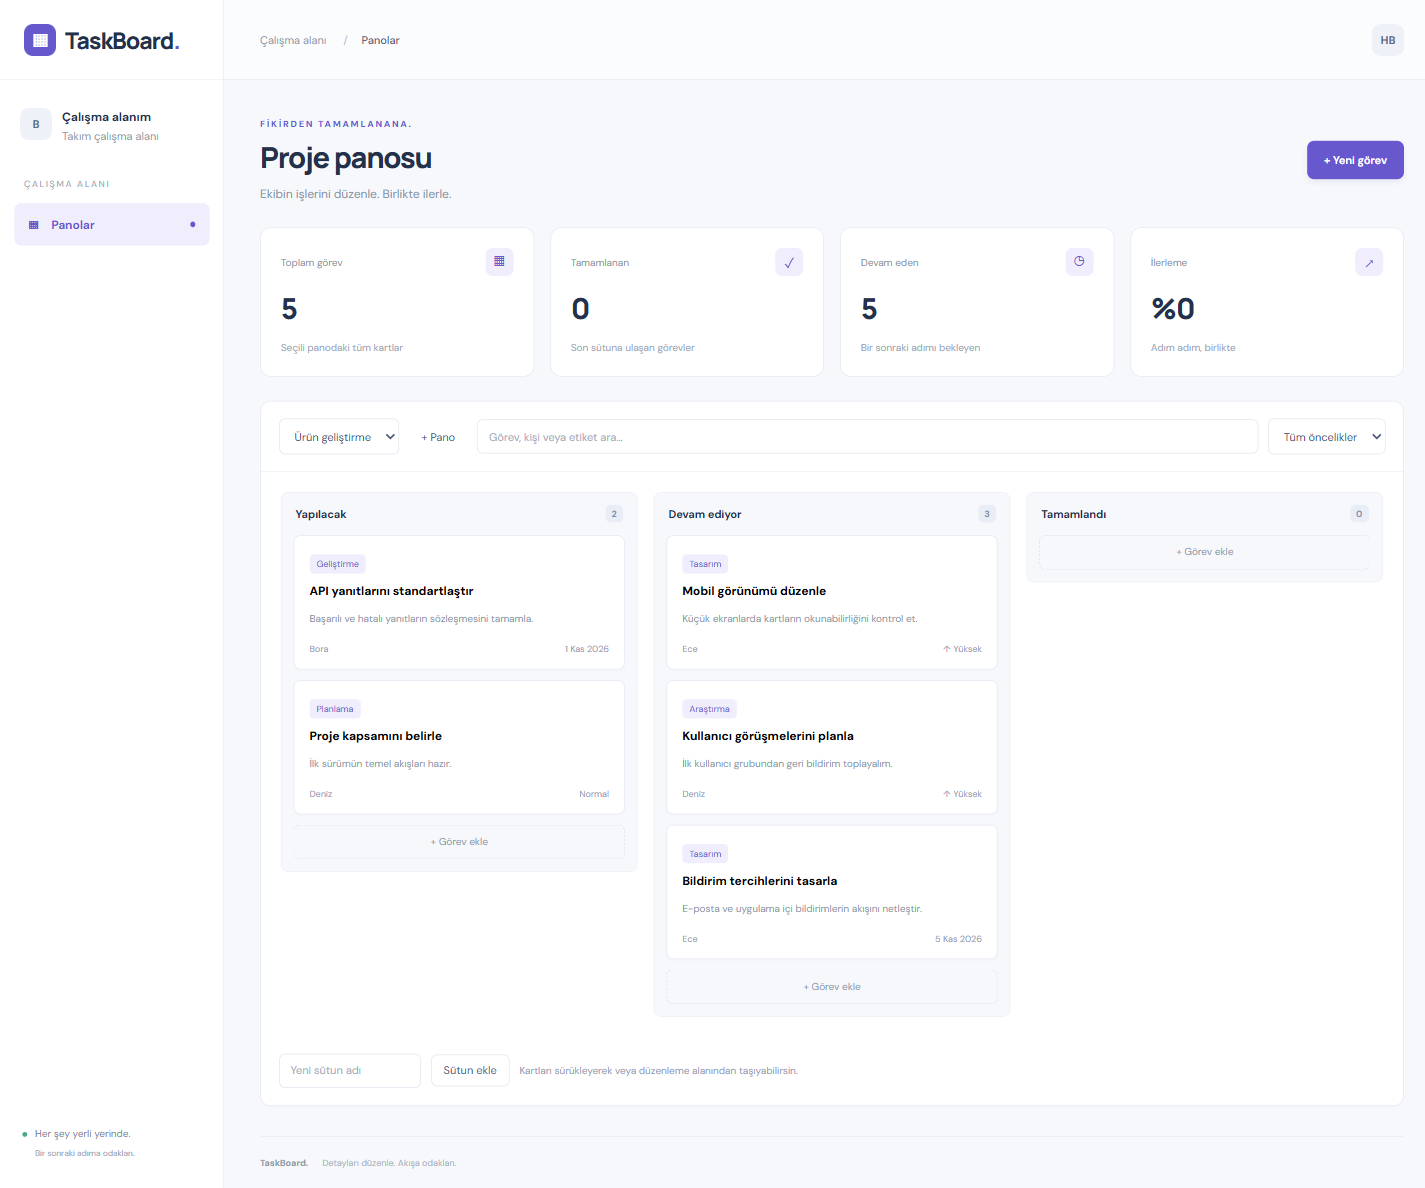
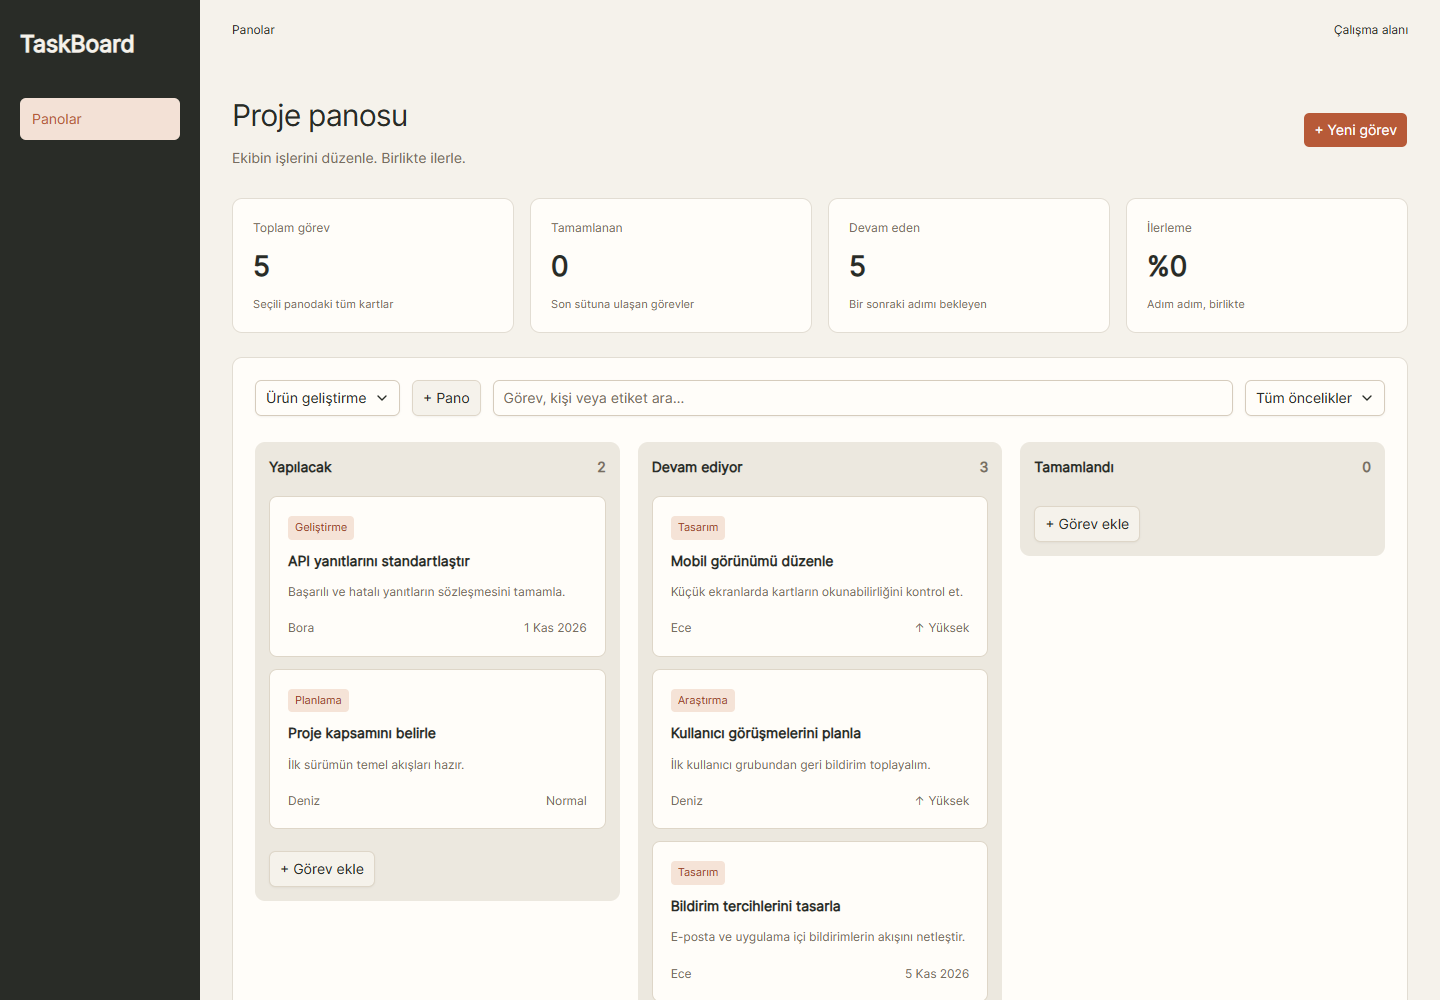
docs(ui): refresh screenshots and document theme boundaries

diff --git a/docs/ui.md b/docs/ui.md
@@ -1,0 +1,21 @@
+# Arayüz sistemi
+
+Spartan UI kullanılır. Taş ve kiremit tonları, koyu proje şeridi ve Kanban sütunları.
+
+## Tema sınırı
+
+Tailwind semantic CSS variables; src/ui içindeki Helm bileşenleri ve Spartan Brain.
+
+- Bileşen renkleri, tipografisi ve durumları kütüphanenin açık tema API’sinden yönetilir.
+- `src/styles.css` uygulamanın yerleşimini ve iş alanına özel kart/takvim geometrisini tanımlar.
+- Kütüphanenin ürettiği iç sınıflara bağlanan seçiciler, `::ng-deep` ve `!important` kullanılmaz.
+- Takvim randevuları ve sürüklenen Kanban kartları semantik iş alanı kontrolleridir; sabit yüksekliği olan standart aksiyon butonuna zorlanmaz.
+- Formların isimleri, doğrulama alanları ve HTTP sözleşmeleri korunur. Backend katmanları değişmez.
+
+## Kontrol
+
+- Masaüstü: 1440 × 1000; telefon: 390 × 844.
+- Gerçek API ve PostgreSQL ile arayüzden kayıt oluşturma doğrulandı.
+- Form açma/kapatma ve dar ekran taşmaları kontrol edildi.
+
+[Bileşen kütüphanesi belgeleri](https://spartan.ng)

diff --git a/README.md b/README.md
@@ -8,6 +8,10 @@ Fikirden tamamlanana. Ekibin için sade bir Kanban çalışma alanı.
 
 [Telefon görünümü](docs/mobile.png)
 
+## Arayüz
+
+**Spartan UI** · Taş ve kiremit tonları, koyu proje şeridi ve Kanban sütunları. Tema sınırları ve doğrulama notları: [Arayüz sistemi](docs/ui.md).
+
 ## Özellikler
 
 - Birden fazla pano ve özel sütunlar
